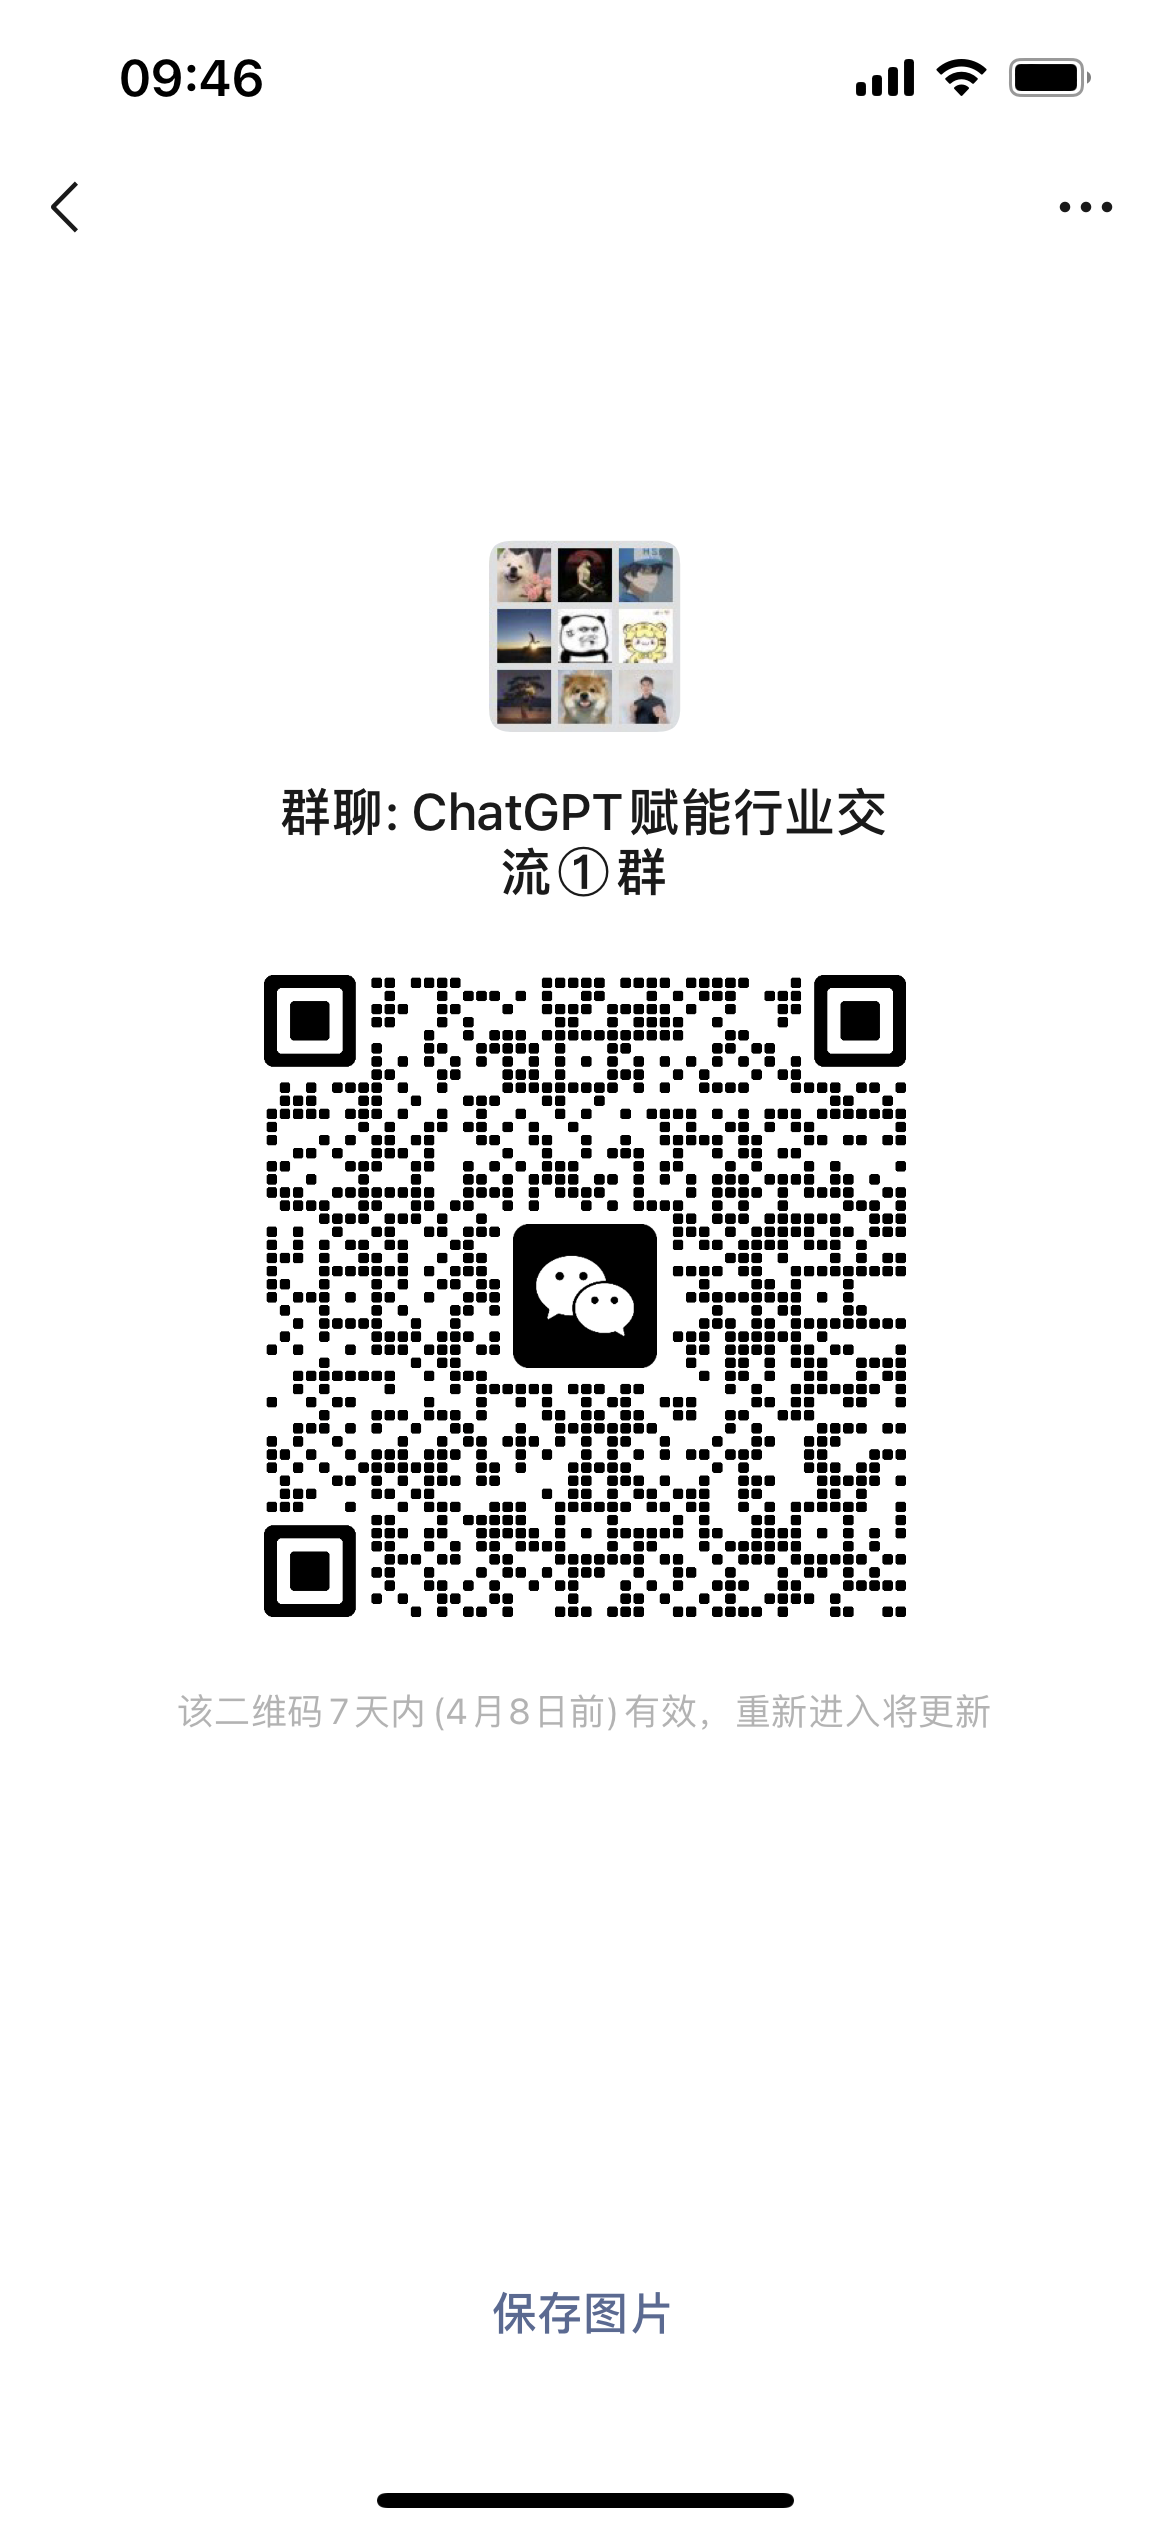
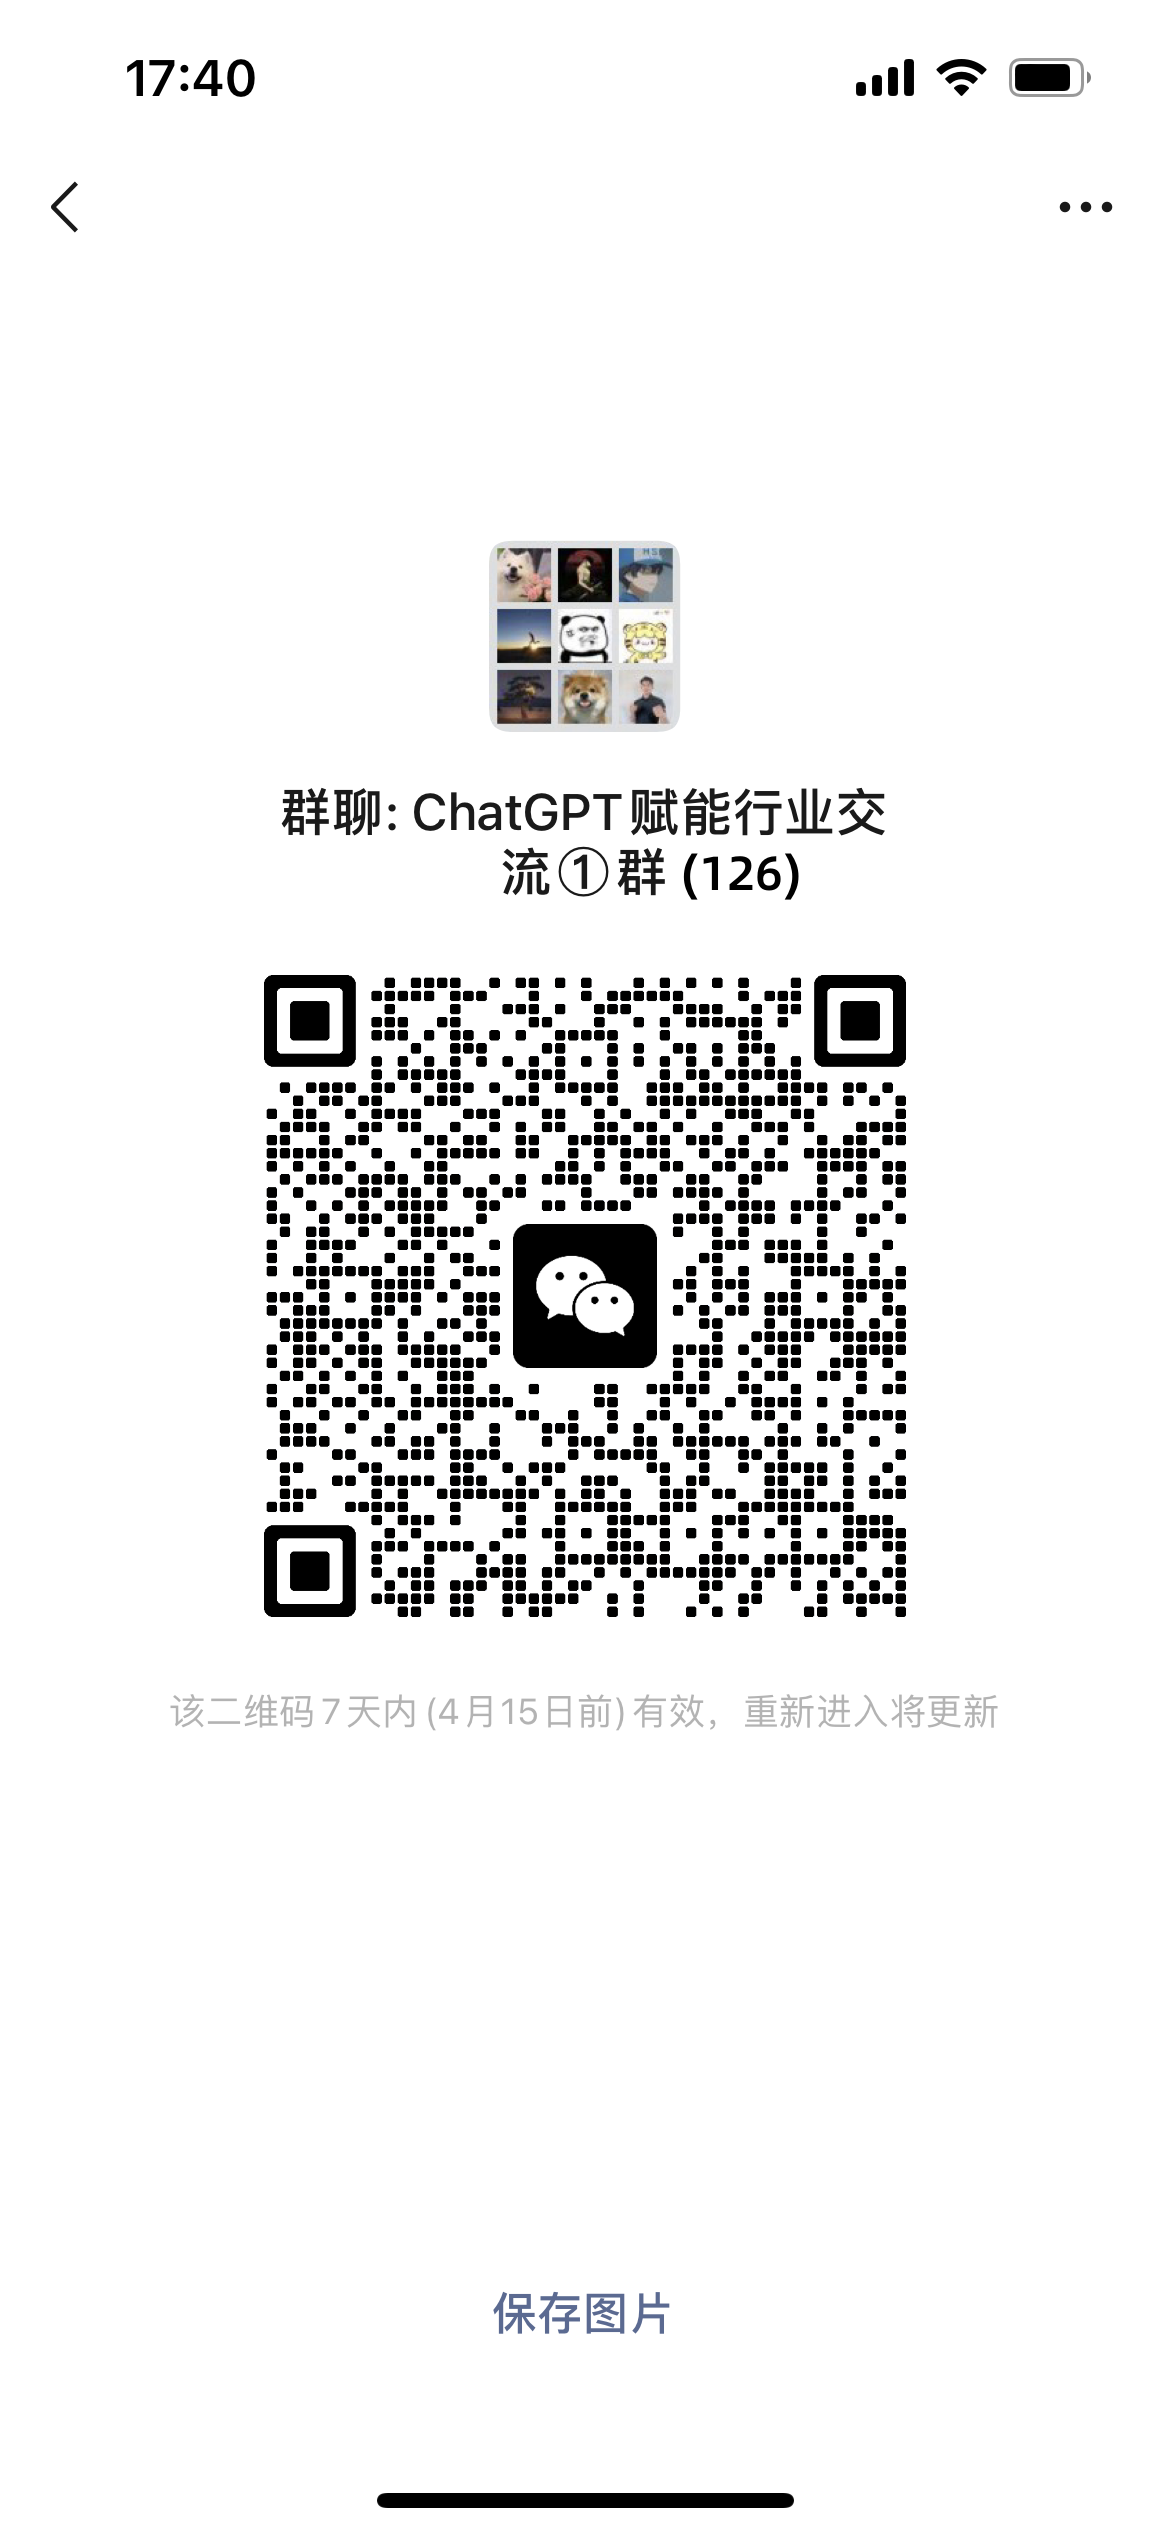
-

diff --git a/README.md b/README.md
@@ -12,6 +12,12 @@ Chat Fit Android是一个基于安卓原生编写的APP, for [chat.openai.com](h
 
 ## 加入群聊
 
+各行各业现在都面临GPT4带来的冲击，很多朋友有意向去接触GPT但是身边没有一个可以提供专业解答的人；
+
+也有计算机软件专业的同仁空有一身技术，缺乏对市场的敏锐度，不知道这波红利能蹭不能蹭到。
+
+此群有电商、直播、市场、运营、计算机、建筑、法律、生物、医生、公务员、教师多个领域的工薪阶层，大家都想在工作中通过GPT4来提高效率
+
 <div align="center">
 <img src="./docs/assets/CC1F74937309CF3B3B03DB31A170C3D8.png" width="300"  />
 </div>
